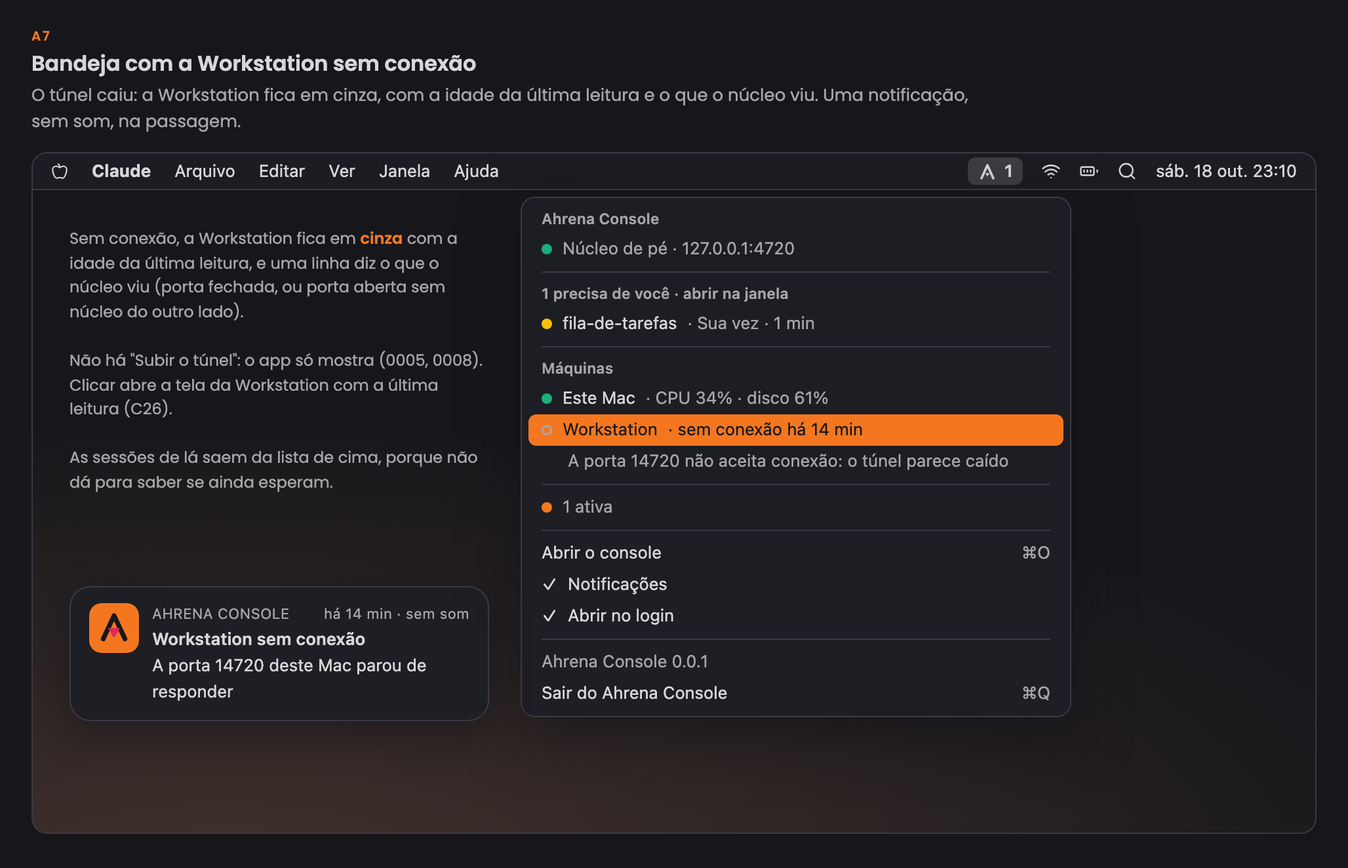
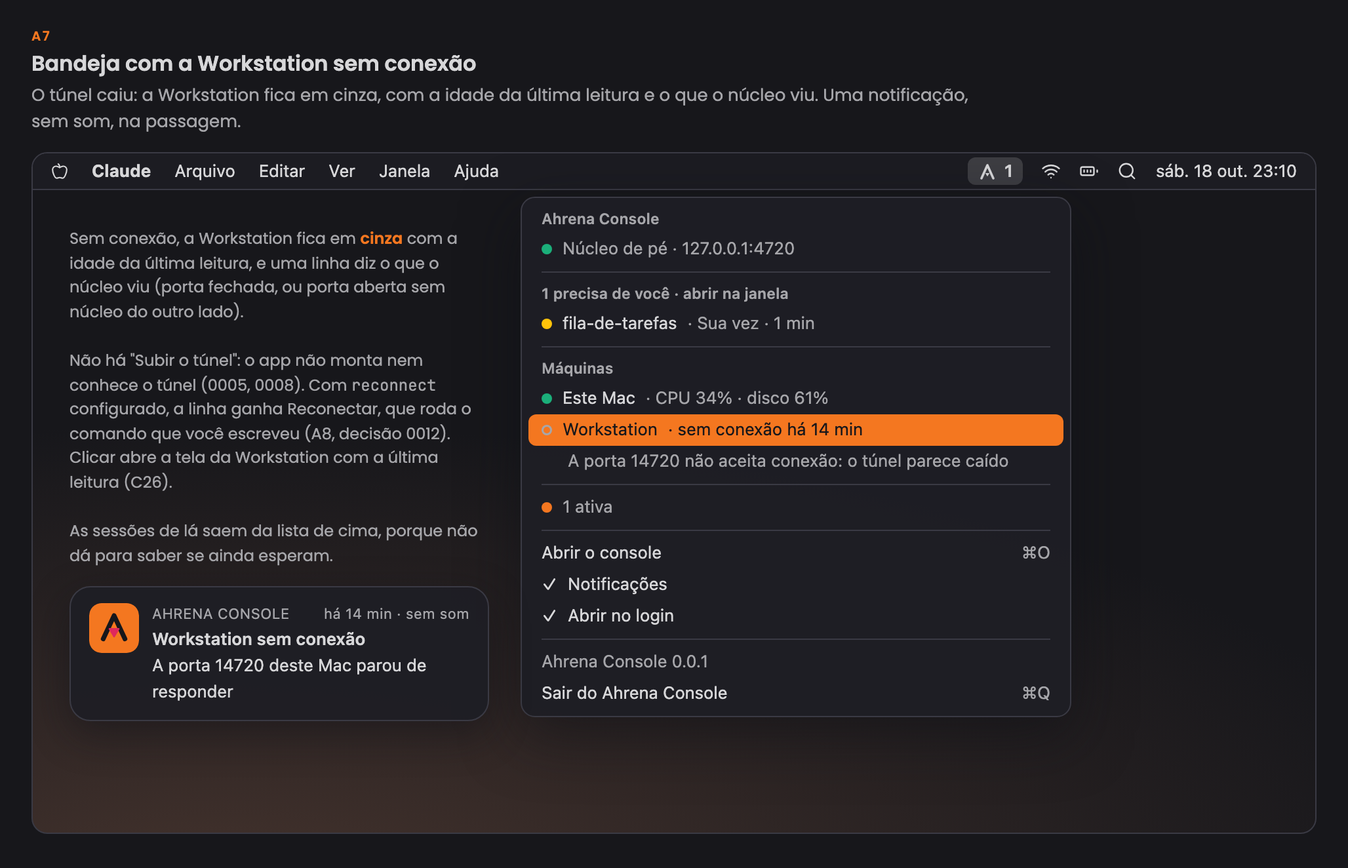
docs(wireframes): draw Reconnect for the remote machine (C45, A8)
C45 shows the remote machine screen in six states: offline with
reconnect configured, reconnecting, reconnected, failed (exit code and
timeout, plus variant B with the last output lines, to be decided),
no reconnect configured, and already reconnecting from the tray.
A8 adds Reconnect to the tray and to the offline notification.

C26 and A7 no longer say the app never touches the tunnel: it still
does not build or know it, but it can run the command the user wrote.
The C26 machines.json example now uses the real keys (label, port).

Refs #244

Changed region(s): [[0.0623, 0.4026, 0.3424, 0.6503]]

diff --git a/docs/wireframes/index.html b/docs/wireframes/index.html
@@ -520,6 +520,36 @@ body.captura .palco { overflow: visible; }
 .tm-states > .cartao { min-width: 0; }
 .tm-stack { display: flex; height: 8px; border-radius: 99px; overflow: hidden; background: var(--raised); }
 .tm-stack i { display: block; height: 100%; }
+/* ---------- reconnect the remote machine (C45 and A8, issue #244, decision 0012) ---------- */
+.tm-rc { display: flex; flex-direction: column; gap: 28px; }
+.tm-rc-row { display: flex; gap: 24px; align-items: flex-start; }
+.tm-rc-note { position: static; width: 300px; flex: none; padding-top: 22px; display: flex; flex-direction: column; gap: 12px; }
+.tm-rc-note code { font-size: 11px; }
+.faixa .tm-rc-actions { margin-left: auto; display: flex; gap: 8px; flex: none; align-items: center; }
+.faixa .tm-rc-actions .btn { margin-left: 0; }
+.faixa.tm-rc-band { align-items: flex-start; }
+.faixa.tm-rc-band .ic { margin-top: 1px; }
+.tm-rc-text { min-width: 0; flex: 1; }
+.tm-rc-cmd { margin-top: 6px; font-family: var(--font-mono); font-size: 11px; color: var(--muted); overflow-wrap: anywhere; }
+.btn.tm-rc-off { opacity: .55; cursor: not-allowed; }
+.faixa.tm-rc-ok { background: color-mix(in srgb, var(--status-completed-badge) 70%, var(--surface)); border-color: color-mix(in srgb, var(--status-completed-dot) 50%, var(--border)); }
+.faixa.tm-rc-ok .ic, .faixa.tm-rc-ok b { color: var(--status-completed-text); }
+.tm-rc-steps { display: flex; gap: 8px; align-items: center; flex-wrap: nowrap; white-space: nowrap; margin-top: 8px; font-size: 11.5px; color: var(--muted); }
+.tm-rc-steps > span { display: inline-flex; gap: 5px; align-items: center; }
+.tm-rc-steps .done { color: var(--status-completed-text); }
+.tm-rc-steps .on { color: var(--text); font-weight: 600; }
+.tm-rc-time { display: flex; align-items: center; gap: 10px; margin-top: 8px; font-family: var(--font-mono); font-size: 11px; color: var(--muted); }
+.tm-rc-time .tm-stack { width: 200px; height: 6px; }
+.tm-rc-clip { max-height: 520px; overflow: hidden; -webkit-mask-image: linear-gradient(to bottom, #000 60%, transparent); mask-image: linear-gradient(to bottom, #000 60%, transparent); }
+.tm-rc-out { font-family: var(--font-mono); font-size: 11px; line-height: 1.6; background: var(--bg); border: 1px solid var(--border); border-radius: 8px; padding: 8px 10px; margin-top: 8px; color: var(--text); white-space: pre-wrap; overflow-wrap: anywhere; }
+.tm-rc-variant { border: 1px dashed var(--border); border-radius: 12px; padding: 10px 12px 12px; display: flex; flex-direction: column; gap: 8px; }
+.tm-rc-variant > .olhinho { color: var(--status-waiting-text); }
+.tm-rc-setup { padding: 16px 18px; display: flex; flex-direction: column; gap: 12px; }
+.tm-rc-setup h5 { margin: 0; font-size: 13.5px; font-weight: 600; display: flex; align-items: center; gap: 8px; }
+.tm-rc-setup ol { margin: 0; padding-left: 20px; display: flex; flex-direction: column; gap: 10px; font-size: 12.5px; }
+.tm-rc-setup ol li > span { color: var(--muted); }
+.tm-rc-setup .tm-config { margin-top: 6px; }
+.tm-rc-setup .tm-legend { gap: 8px 18px; }
 /* ---------- Dev Console (C27) ---------- */
 .dev-queue { list-style: none; margin: 0; padding: 0; counter-reset: dev; }
 .dev-queue li { counter-increment: dev; display: grid; grid-template-columns: 26px 170px minmax(0, 1fr) auto; gap: 10px; align-items: center; padding: 9px 14px; border-bottom: 1px solid var(--border); font-size: 12.5px; }
@@ -1736,10 +1766,94 @@ const machineStatesScreen = () => `${cab('server', 'Workstation', 'Os outros est
     <div class="cartao vazio" style="min-height:300px"><span class="ic" style="color:var(--status-waiting-text)">${ic('server-off')}</span><b>O túnel está de pé, mas o núcleo de lá não respondeu</b><span>A porta 14720 aceita a conexão e ninguém responde em 3 s. Suba o núcleo na Workstation:</span><span class="tm-config">node packages/nucleo/src/dono/cli.ts subir</span><span class="btn contorno">${ic('refresh-cw')}Tentar de novo</span></div>
     <div class="cartao vazio" style="min-height:300px"><span class="ic">${ic('plug')}</span><b>Nenhuma máquina remota</b><span>Sem configuração, só esta máquina aparece. Para acompanhar outra, rode o núcleo nela, encaminhe a 4720 de lá por um túnel e grave:</span><span class="tm-config">~/.ahrena-console/machines.json
 { "machines": [{ "id": "workstation",
-  "rotulo": "Workstation", "porta": 14720 }] }</span></div>
+  "label": "Workstation", "port": 14720 }] }</span></div>
     <div class="cartao vazio" style="min-height:300px"><span class="ic" style="color:var(--status-waiting-text)">${ic('git-compare')}</span><b>Versão diferente lá</b><span>O núcleo de lá é a 0.0.1 e este é a 0.0.2. Mostramos o que as duas entendem; os cards que faltam ficam de fora até atualizar lá.</span></div>
   </div>
-  <div class="faixa"><span class="ic">${ic('info')}</span><div>O app <b>não sobe nem derruba o túnel</b>: só mostra. Subir, parar e encaminhar portas continua com a ferramenta que você já usa (decisão 0008).</div></div>`
+  <div class="faixa"><span class="ic">${ic('info')}</span><div>O app <b>não monta nem conhece o túnel</b>: subir, parar e encaminhar portas continua com a ferramenta que você já usa (decisão 0008). Com <code>reconnect</code> no machines.json, ele roda o comando que você escreveu para reconectar (decisão 0012, C45).</div></div>`
+
+// =====================================================================
+// RECONNECT the remote machine (C45, issue #244, decision 0012)
+// =====================================================================
+// The core runs the list the user wrote in machines.json ("reconnect.command"), nothing else.
+const RC_COMMAND = '/caminho/para/conectar.sh tunnel restart'
+const rcBadge = state => state === 'ok' ? '<span class="badge b-completed"><span class="p"></span>Conectada</span>'
+  : state === 'running' ? '<span class="badge b-waiting"><span class="p"></span>Reconectando</span>'
+  : '<span class="badge b-error"><span class="p"></span>Sem conexão</span>'
+const rcHeader = (state, readAt) => cab('server', 'Workstation', `ws-exemplo · Ubuntu 24.04 · 16 vCPUs · 62 GB · T4 · porta 14720 do Mac · ${readAt}`, `${rcBadge(state)}${hourToggle}`)
+const rcOfflineText = '<b>Sem conexão com a Workstation.</b> A porta 14720 deste Mac não aceita conexão: o túnel parece caído. Abaixo, a última leitura, de 22:41 (há 14 min). Tentamos de novo a cada 30 s.'
+const rcCmdLine = `<div class="tm-rc-cmd">Roda: ${RC_COMMAND} · até 3 min</div>`
+const rcBody = (w, faded) => `<div class="tm-rc-clip"><div${faded ? ' class="tm-faded"' : ''}>${workstationBody(w)}</div></div>`
+const rcSteps = at => `<div class="tm-rc-steps">${['rodando o comando', 'aguardando o login', 'lendo a Workstation'].map((s, i) =>
+  `<span class="${i < at ? 'done' : i === at ? 'on' : ''}">${ic(i < at ? 'check-circle-2' : i === at ? 'loader-2' : 'circle-dot')}${s}</span>`).join('<span>→</span>')}</div>`
+const rcTime = (elapsed, pct) => `<div class="tm-rc-time"><span class="tm-stack"><i style="width:${pct}%;background:var(--status-waiting-dot)"></i></span><span>${elapsed} de 3:00</span></div>`
+const rcErrorBand = (title, text, extra = '') => `<div class="faixa erro tm-rc-band"><span class="ic">${ic('x-circle')}</span><div class="tm-rc-text"><b>${title}</b> ${text}
+  <div class="tm-rc-cmd">A saída ficou no log da instalação: ~/.ahrena-console/&lt;instalação&gt;/core.log</div>${extra}</div>
+  <div class="tm-rc-actions"><span class="btn cheio">${ic('refresh-cw')}Tentar de novo</span></div></div>`
+
+// 1. Offline, with reconnect configured
+const rcOfferScreen = w => `${rcHeader('off', 'última leitura às 22:41')}
+  <div class="faixa erro tm-rc-band"><span class="ic">${ic('wifi-off')}</span><div class="tm-rc-text">${rcOfflineText}${rcCmdLine}</div>
+    <div class="tm-rc-actions"><span class="btn contorno">Tentar agora</span><span class="btn cheio">${ic('plug')}Reconectar</span></div></div>
+  ${rcBody(w, true)}`
+// 2. Reconnecting (and 6: started from the tray)
+const rcRunningScreen = fromTray => `${rcHeader('running', 'última leitura às 22:41')}
+  <div class="faixa tm-rc-band"><span class="ic">${ic('loader-2')}</span><div class="tm-rc-text"><b>${fromTray ? 'Reconectando, pela bandeja…' : 'Reconectando…'}</b> aguardando o login no navegador. Se o comando abriu uma página de login, ela é sua: entre por lá e o console segue sozinho.
+    ${rcSteps(1)}${fromTray ? rcTime('0:40', 22) : rcTime('1:12', 40)}${rcCmdLine}</div>
+    <div class="tm-rc-actions"><span class="btn contorno">${ic('x')}Cancelar</span><span class="btn cheio tm-rc-off">${ic('loader-2')}${fromTray ? 'Um por vez' : 'Reconectando…'}</span></div></div>
+  ${rcBody(1100, true)}`
+// 3. Reconnected
+const rcDoneScreen = () => `${rcHeader('ok', 'lido há 4 s')}
+  <div class="faixa tm-rc-ok"><span class="ic">${ic('check-circle-2')}</span><div><b>Reconectada às 22:58</b> · a leitura voltou. O comando saiu com o código 0 depois de 1 min 26 s, e o núcleo leu a Workstation na hora.</div></div>
+  ${rcBody(1100, false)}`
+// 4. Failed: exit code, timeout, and variant B with the last lines on screen
+const rcFailedScreen = () => `${rcHeader('off', 'última leitura às 22:41')}
+  <div class="olhinho">4a · o comando saiu com erro</div>
+  ${rcErrorBand('Não reconectou.', 'O comando saiu com o código 1 depois de 42 s. A Workstation continua sem conexão.')}
+  <div class="olhinho">4b · passou do tempo</div>
+  ${rcErrorBand('Não reconectou.', 'O comando passou de 3 min e foi encerrado. Se um login ficou aberto no navegador, ele não conta mais.')}
+  <div class="tm-rc-variant"><div class="olhinho">${ic('help-circle')}Variante B, a decidir · as últimas linhas na tela</div>
+  ${rcErrorBand('Não reconectou.', 'O comando saiu com o código 1 depois de 42 s. As últimas 3 linhas:', `<div class="tm-rc-out">Erro: a sessão de login expirou
+abrindo a página de login de novo…
+tente de novo em alguns segundos</div>`)}</div>
+  ${rcBody(1100, true)}`
+// 5. No reconnect configured
+const rcSetupScreen = () => `${rcHeader('off', 'última leitura às 22:41')}
+  <div class="faixa erro"><span class="ic">${ic('wifi-off')}</span><div>${rcOfflineText}</div><span class="btn contorno">Tentar agora</span></div>
+  <div class="cartao tm-rc-setup"><h5>${ic('plug')}Reconectar daqui</h5>
+    <span class="c-muted" style="font-size:12.5px">O console pode rodar, com um clique, o comando que você já usa para subir o túnel. Ele não sabe montar túnel nenhum: só roda o que você escrever.</span>
+    <ol><li><b>Tenha um comando que sobe o túnel.</b> <span>O seu script, o que você já roda no terminal.</span></li>
+      <li><b>Acrescente <code>reconnect</code> à máquina no machines.json.</b>
+        <div class="tm-config">~/.ahrena-console/machines.json
+{ "machines": [ { "id": "workstation", "label": "Workstation", "port": 14720,
+    "reconnect": { "command": ["/caminho/para/conectar.sh", "tunnel", "restart"],
+                   "timeoutSeconds": 180 } } ] }</div></li>
+      <li><b>Pronto.</b> <span>O console relê o arquivo ao salvar, sem reiniciar, e o botão Reconectar aparece aqui e na bandeja.</span></li></ol>
+    <div class="tm-legend"><span>${ic('list')} Uma lista, sem shell: o console roda exatamente o que está no arquivo.</span><span>${ic('lock')} Nada da tela vira comando.</span></div></div>
+  ${rcBody(1100, true)}`
+
+const rcNote = items => `<div class="anota tm-rc-note">${items.map(x => `<div>${x}</div>`).join('')}</div>`
+const rcRow = (frames, note) => `<div class="tm-rc-row">${frames.map(([label, f]) => `<div class="width-col"><div class="rotulo">${label}</div>${f}</div>`).join('')}${note ? rcNote(note) : ''}</div>`
+const reconnectScreens = () => `<div class="tm-rc">
+  ${rcRow([['1 · sem conexão, com reconexão configurada · 1100 px', frameAt(1100, 'machine-ws', rcOfferScreen(1100), 'off')], ['1 · 1440 px', frameAt(1440, 'machine-ws', rcOfferScreen(1440), 'off')]], [
+    '<b>Só roda o que você escreveu</b>: a lista <code>reconnect.command</code> do machines.json, exatamente, sem shell e sem interpolação. Nada digitado na tela vira comando: o botão só manda o id da máquina.',
+    'A linha mono repete a lista do arquivo e o tempo limite (<code>timeoutSeconds</code>), para você saber o que vai rodar <b>antes</b> de clicar.',
+    'O clique é um <b>POST de mesma origem</b>, a exceção da decisão 0003; outro Origin é recusado.',
+    'Reconectar é o botão principal; Tentar agora continua só relendo a porta, sem rodar nada.'])}
+  ${rcRow([['2 · reconectando · 1100 px', frameAt(1100, 'machine-ws', rcRunningScreen(false), 'off')], ['6 · já reconectando, começou pela bandeja · 1100 px', frameAt(1100, 'machine-ws', rcRunningScreen(true), 'off')]], [
+    'O núcleo roda o comando como <b>processo filho</b>, com o PATH do shell de login e nada além disso.',
+    '<b>Um por vez</b> por máquina: o segundo clique, daqui ou da bandeja (6), encontra o botão desligado e a mesma contagem.',
+    'O núcleo não vê o navegador: enquanto o processo roda, a faixa diz "aguardando o login", que é o caso comum. "Rodando o comando" fica feito quando o processo sobe.',
+    '<b>Cancelar</b> encerra o processo filho. Uma página de login já aberta no navegador fica lá, e é sua.',
+    '<b>Tempo limite</b>: o <code>timeoutSeconds</code> do arquivo. Passou, o núcleo encerra o processo e mostra a falha (4b).'])}
+  ${rcRow([['3 · reconectada · 1100 px', frameAt(1100, 'machine-ws', rcDoneScreen(), 'ok')], ['5 · sem reconexão configurada · 1100 px', frameAt(1100, 'machine-ws', rcSetupScreen(), 'off')]], [
+    'Saiu com 0: o núcleo relê a Workstation <b>na hora</b>, sem esperar os 30 s, e a tela volta ao normal (C25), com a faixa verde dizendo a hora.',
+    'Saiu com 0 e a porta ainda não responde: a tela volta ao estado 1, e a faixa diz que o comando terminou bem mas a Workstation não respondeu.',
+    'Sem <code>reconnect</code>, <b>nenhum botão morto</b> (5): o card ensina a configurar, e a C26 continua igual para quem não quer.'])}
+  ${rcRow([['4 · falhou · 1100 px', frameAt(1100, 'machine-ws', rcFailedScreen(), 'off')]], [
+    '<b>A saída vai para o log da instalação</b>, nunca para a /ui: o que o comando imprime pode ter conta, host ou token (issue #244, item 3). A tela diz só o código de saída, o tempo e onde está o log.',
+    '<b>Variante B, a decidir</b>: as 3 últimas linhas da saída na faixa. Ajuda a ver o motivo sem abrir o log, mas leva para a tela o que o comando imprimiu. A variante A é a da issue.',
+    'Tentar de novo roda o mesmo comando outra vez; nada muda no arquivo.'])}
+</div>`
 
 // =====================================================================
 // DEV CONSOLE (C27)
@@ -2167,9 +2281,34 @@ const APP = {
     ${mi(`<span class="ck"></span><span class="mt">A porta 14720 não aceita conexão: o túnel parece caído</span>`, 'off')}${msep}
     ${mi(`${ponto('active')}1 ativa`, 'off')}${msep}${menuPe}</div>
     <div class="anota" style="left:28px;top:56px;width:320px">Sem conexão, a Workstation fica em <b>cinza</b> com a idade da última leitura, e uma linha diz o que o núcleo viu (porta fechada, ou porta aberta sem núcleo do outro lado).<br><br>
-      Não há "Subir o túnel": o app só mostra (0005, 0008). Clicar abre a tela da Workstation com a última leitura (C26).<br><br>
+      Não há "Subir o túnel": o app não monta nem conhece o túnel (0005, 0008). Com <code>reconnect</code> configurado, a linha ganha Reconectar, que roda o comando que você escreveu (A8, decisão 0012). Clicar abre a tela da Workstation com a última leitura (C26).<br><br>
       As sessões de lá saem da lista de cima, porque não dá para saber se ainda esperam.</div>
     <div class="notif" style="top:330px;left:28px;right:auto;width:320px"><img src="${LOGO}" alt=""><div><div class="app">AHRENA CONSOLE<span>há 14 min · sem som</span></div><div class="tit">Workstation sem conexão</div><div>A porta 14720 deste Mac parou de responder</div></div></div>`,
+  machinesReconnect: () => mbar(1, true) + `<div class="menu" style="right:186px;width:420px">${mi('Ahrena Console', 'cab')}${mi(`${ponto('completed')}Núcleo de pé · 127.0.0.1:4720`, 'off')}${msep}
+    ${mi('1 precisa de você · abrir na janela', 'cab')}${mi(`${ponto('waiting')}fila-de-tarefas<span class="mt">· Sua vez · 1 min</span>`)}${msep}
+    ${mi('Máquinas', 'cab')}
+    ${mi(`${ponto('completed')}Este Mac<span class="mt">· CPU 34% · disco 61%</span>`)}
+    ${mi(`<span class="ponto" style="box-shadow:inset 0 0 0 1.5px var(--muted)"></span>Workstation<span class="mt">· sem conexão há 14 min</span>`)}
+    ${mi(`<span class="ck"></span><span class="mt">A porta 14720 não aceita conexão: o túnel parece caído</span>`, 'off')}
+    ${mi(`<span class="ck"></span>Reconectar a Workstation`, 'foco')}${msep}
+    ${mi(`${ponto('active')}1 ativa`, 'off')}${msep}${menuPe}</div>
+    <div class="anota" style="left:28px;top:56px;width:320px"><b>a.</b> Com <code>reconnect</code> na máquina, a linha dela ganha <b>Reconectar a Workstation</b>. Clicar roda o comando do arquivo no núcleo, como o botão da C45; a bandeja não roda nada sozinha.</div>
+    <div class="notif" style="top:196px;left:28px;right:auto;width:320px"><img src="${LOGO}" alt=""><div><div class="app">AHRENA CONSOLE<span>há 14 min · sem som</span></div><div class="tit">Workstation sem conexão</div><div>A porta 14720 deste Mac parou de responder</div></div>
+      <div class="acoes"><span>Reconectar</span><span>Abrir</span></div></div>
+    <div class="anota" style="left:28px;top:340px;width:320px"><b>c.</b> A notificação de "sem conexão" ganha a ação <b>Reconectar</b>, só quando há <code>reconnect</code>; sem ele, fica como na A7. <b>Abrir</b> leva à tela da Workstation (C45).</div>`,
+  machinesReconnecting: () => mbar(1, true) + `<div class="menu" style="right:186px;width:420px">${mi('Ahrena Console', 'cab')}${mi(`${ponto('completed')}Núcleo de pé · 127.0.0.1:4720`, 'off')}${msep}
+    ${mi('1 precisa de você · abrir na janela', 'cab')}${mi(`${ponto('waiting')}fila-de-tarefas<span class="mt">· Sua vez · 1 min</span>`)}${msep}
+    ${mi('Máquinas', 'cab')}
+    ${mi(`${ponto('completed')}Este Mac<span class="mt">· CPU 34% · disco 61%</span>`)}
+    ${mi(`${ponto('waiting')}Workstation<span class="mt">· reconectando</span>`, 'foco')}
+    ${mi(`<span class="ck"></span>Reconectando… aguardando login · 1:12`, 'off')}${msep}
+    ${mi(`${ponto('active')}1 ativa`, 'off')}${msep}${menuPe}</div>
+    <div class="anota" style="left:28px;top:56px;width:320px"><b>b.</b> Enquanto o comando roda, o item fica <b>cinza e sem clique</b>, com a contagem: um por vez, daqui ou da janela. Clicar na linha da Workstation abre a C45, onde está o Cancelar.</div>
+    <div class="menu" style="left:28px;top:200px;width:320px">${mi('Sem reconnect configurado', 'cab')}${msep}
+      ${mi(`<span class="ponto" style="box-shadow:inset 0 0 0 1.5px var(--muted)"></span>Workstation<span class="mt">· sem conexão há 14 min</span>`)}
+      ${mi(`<span class="ck"></span><span class="mt">A porta 14720 não aceita conexão</span>`, 'off')}
+      ${mi(`<span class="ck"></span>Como reconectar daqui…`, 'foco')}</div>
+    <div class="anota" style="left:28px;top:330px;width:320px">Sem <code>reconnect</code>, nada de botão que não funciona: <b>Como reconectar daqui…</b> abre a C45 no estado 5, com o passo a passo do machines.json.</div>`,
   janela: () => mbar(3, false) + `<div class="janela"><div class="tb"><span class="sem"><i></i><i></i><i></i></span><span class="nm">Ahrena Console · motor-de-regras</span><span class="mono">127.0.0.1:4720/ui/sessoes/b91d04aa</span></div>${cc('sessoes', telaConversa())}</div>`,
 }
 
@@ -2228,7 +2367,9 @@ const TELAS = [
   { id: 'app-machines', cod: 'A6', nome: 'Bandeja com a Workstation conectada e um alerta', sub: 'O bloco Máquinas: esta máquina e a remota, com o número que mais importa e os alertas abertos. As sessões da Workstation que esperam entram na lista de cima, com o rótulo da máquina.', html: () => `<div class="fila"><div class="mac">${APP.machines()}</div></div>`,
     n: N(['O menu do A2, igual; o CCAM não tem telemetria de máquina.', 'Do painel de telemetria antigo: a linha do túnel e o alerta de porta.'], ['Telemetria no menu só como resumo: o detalhe é a janela.', 'Alerta de máquina não entra no número da barra, que é de sessões.', 'Sem ações de túnel, login ou portas: o app só mostra (0008).']) },
   { id: 'app-machines-offline', cod: 'A7', nome: 'Bandeja com a Workstation sem conexão', sub: 'O túnel caiu: a Workstation fica em cinza, com a idade da última leitura e o que o núcleo viu. Uma notificação, sem som, na passagem.', html: () => `<div class="fila"><div class="mac">${APP.machinesOffline()}</div></div>`,
-    n: N(['Do painel de telemetria antigo: os estados da porta (respondendo, ninguém escuta lá, ocupada, fora do túnel).'], ['O painel antigo tinha "Subir o túnel"; aqui não, porque mudar o túnel pede uma confirmação que não cabe numa bandeja.']) },
+    n: N(['Do painel de telemetria antigo: os estados da porta (respondendo, ninguém escuta lá, ocupada, fora do túnel).'], ['O painel antigo tinha "Subir o túnel"; aqui não: o app não conhece o túnel. Reconectar, quando configurado, roda só o comando que você escreveu (A8).']) },
+  { id: 'app-machines-reconnect', cod: 'A8', nome: 'Bandeja: Reconectar', sub: 'Feature Reconectar a máquina remota (#244, decisão 0012). À esquerda, com reconnect configurado: o item Reconectar a Workstation e a notificação com a ação Reconectar. À direita, o comando rodando (cinza, sem clique) e, sem reconnect, o item que ensina a configurar.', html: () => `<div class="fila"><div class="mac">${APP.machinesReconnect()}</div><div class="mac">${APP.machinesReconnecting()}</div></div>`,
+    n: N(['Do painel de telemetria antigo: o "Subir o túnel" na linha da máquina; aqui o comando é o seu, não um que o app conhece.'], ['Só aparece com <code>reconnect</code> no machines.json; sem ele, um item leva ao passo a passo (C45, estado 5).', 'Um por vez: o item fica cinza com a contagem enquanto o comando roda, venha o clique daqui ou da janela.', 'Cancelar fica na janela: na bandeja não cabe confirmação.']) },
   { cap: 'console', titulo: 'Console (artefato)', desc: 'O console completo, que é também o que a janela do app mostra: todas as telas do CCAM que fazem sentido aqui, na mesma ordem da barra lateral dele. Moldura, cabeçalho, cards, tabelas e gráficos seguem o CCAM tela a tela.' },
   { id: 'console-dashboard', cod: 'C1', nome: 'Dashboard', sub: '6 cards, "precisam de você" em destaque, agentes ativos e atividade recente (3.2).', html: () => `<div class="fila">${cc('dashboard', telaDashboard())}</div>`,
     n: N(['Dashboard · Monitor: grade 3 × 2 de StatCard, Active Agents com AgentCard (borda na cor do status, duas últimas mensagens, modelo, custo, idade, id) e Recent Activity.', 'Cabeçalho de página com ícone, título, pílula Live e Refresh; segmented Monitor | Saúde.'], ['O inbox "precisam de você" entra entre os números e as listas, ideia do Podium.', 'Custo sempre com "~" e "estimativa".']) },
@@ -2281,7 +2422,9 @@ const TELAS = [
   { id: 'console-workstation', cod: 'C25', nome: 'Workstation', sub: 'A mesma tela para a máquina remota, lida do núcleo de lá pela porta que o túnel encaminha: carga contra os vCPUs, volumes, Docker com o recuperável, stacks com a sessão dona, as sessões do Claude de lá e as portas, com a porta do Mac que encaminha cada uma.', html: () => `<div class="fila">${bothWidths(w => frameAt(w, 'machine-ws', workstationScreen(w)))}</div>`,
     n: N(['Do console da workstation antigo: volumes, recursos, Docker em uso e recuperável, stacks e a sessão dona, sessões do Claude lá, portas em escuta por interface e "o que pede atenção".'], ['Lido ao vivo do núcleo de lá, a cada 30 s; o antigo era escrito à mão a cada medição.', 'Fora: faturamento e créditos de nuvem (pedem credencial de uma conta), perfis de nuvem e worktrees (ficam para uma issue própria).', 'O nome da máquina e a porta vêm de ~/.ahrena-console/machines.json; nada aponta para uma máquina por padrão.']) },
   { id: 'console-workstation-offline', cod: 'C26', nome: 'Workstation sem conexão, e os outros estados', sub: 'Túnel caído: a faixa diz o que o núcleo viu e a tela mostra a última leitura, desbotada. Ao lado, o túnel de pé com o núcleo de lá parado, nenhuma máquina configurada e versão diferente.', html: () => `<div class="fila"><div class="width-col"><div class="rotulo">1100 px</div>${frameAt(1100, 'machine-ws', workstationOfflineScreen(), 'off')}</div><div class="width-col"><div class="rotulo">1100 px</div>${frameAt(1100, 'machine-ws', machineStatesScreen(), 'off')}</div></div>`,
-    n: N(['Os três estados do C19 (carregando, vazio e erro).', 'Do painel antigo: "Sem ligação com esta máquina" com o diagnóstico logo abaixo.'], ['Sem botão de subir o túnel nem o núcleo de lá: o app só mostra.', 'A última leitura fica no SQLite do Mac, então a tela abre com ela e diz a idade.']) },
+    n: N(['Os três estados do C19 (carregando, vazio e erro).', 'Do painel antigo: "Sem ligação com esta máquina" com o diagnóstico logo abaixo.'], ['Sem botão de subir o núcleo de lá. O túnel continua seu; Reconectar só aparece com o comando que você escreveu no machines.json (C45).', 'A última leitura fica no SQLite do Mac, então a tela abre com ela e diz a idade.']) },
+  { id: 'console-workstation-reconnect', cod: 'C45', nome: 'Reconectar a Workstation', sub: 'Feature Reconectar a máquina remota (#244, decisão 0012): o console roda o comando de reconexão que você escreveu no machines.json. Os seis estados: com reconexão configurada (1, em 1100 e 1440), reconectando (2), reconectada (3), falhou (4, com a variante B a decidir), sem reconexão configurada (5) e já reconectando pela bandeja (6). A última leitura aparece cortada embaixo; é a mesma da C25.', html: () => reconnectScreens(),
+    n: N(['Do painel de telemetria antigo: "Sem ligação com esta máquina" com o diagnóstico logo abaixo, como na C26.'], ['O console não sabe montar túnel nem fazer login: roda a lista do arquivo, sem shell, e só ela.', 'A saída do comando fica no log da instalação, nunca na tela (variante A); a B está desenhada para o dono escolher.', 'Um por vez por máquina, com tempo limite e Cancelar.']) },
   { id: 'console-dev-console', cod: 'C27', nome: 'Dev Console', sub: 'O placar de um contexto (um conjunto de repositórios): prontos para você, CI rodando, CI vermelho, sessões trabalhando e quem espera; a fila de merge na ordem; o quadro das issues em seis colunas e o que foi mesclado. Em 1440 as seis colunas lado a lado; em 1100, quatro e duas embaixo, para nada rolar na horizontal.', html: () => `<div class="fila">${bothWidths(w => frameAt(w, 'dev', devConsoleScreen(w)))}</div>`,
     n: N(['Do Dev Console antigo: o seletor de contexto, a aba Fila de merge com todos os contextos, o placar de 5 números, "Depende de você", a fila na ordem de merge com os não prontos fechados, o quadro de 6 colunas com o critério de cada uma, e "mesclados nas últimas 24 h".'], ['Derivado no núcleo, sem sessão de PM gravando estado: "Delegada" é uma sessão aberta no branch da issue sem push, e "Depende de você" vem de /api/atencao e das decisões sugeridas.', '"Bloqueada" é a etiqueta blocked da issue; plano em andamento e a trilha da release ficaram de fora, porque dependiam de anotação.', 'O antigo rolava na horizontal (o quadro tinha 1110 px mínimos); aqui o quadro dobra em 1100.']) },
   { id: 'console-adrs', cod: 'C28', nome: 'ADR · decisões de arquitetura', sub: 'Os registros de decisão (ADRs) de todos os repositórios da conta, por repositório, com busca no texto e filtro por status. Em 1100 (a janela do app) e 1440.', html: () => `<div style="display:flex;flex-direction:column;gap:12px"><div class="rotulo">1100 px</div>${frameAt(1100, 'adrs', telaAdrs(false))}<div class="rotulo">1440 px</div>${frameAt(1440, 'adrs', telaAdrs(true))}</div>`,
@@ -2328,7 +2471,8 @@ function montar() {
     <li><b>Sessão com erro:</b> <b>entra</b> em "precisam de você" (decidido pelo dono). Ela parou e só anda com uma ação sua, como as que esperam; o design.md já diz que o vermelho é "falhou e precisa de você". Entra depois das urgentes que esperam e antes de "Sua vez", vai para a bandeja e notifica com som. "No prompt" fica de fora: a sessão acabou de abrir e você sabe disso.</li>
     <li><b>Decisões da sessão:</b> o escopo tem os três níveis (sessão, família e branch), trocados no mesmo seletor; as decisões vigentes chegam à sessão nova pelos dois caminhos, injetadas no início e pelo MCP quando o agente perguntar (P9, P10, C20 e C21).</li>
     <li><b>Onde o grafo vive (#146, a aprovar):</b> a proposta é um detalhe aberto pelo pé do card Subagentes, no lugar dos cards, como as decisões (P11). Dentro do card não cabe; numa seção própria, empurra o resto para baixo.</li>
-    <li><b>Telemetria e Dev Console no app (decisão 0008, a aprovar):</b> cada máquina se mede com o próprio núcleo; o do Mac lê o da Workstation pela porta que o túnel encaminha; o app só mostra, sem subir túnel nem abrir login (A6, A7, C24 a C27). A barra lateral ganha Dev Console e a seção Máquinas, que aparece em todas as telas.</li>
+    <li><b>Telemetria e Dev Console no app (decisão 0008, a aprovar):</b> cada máquina se mede com o próprio núcleo; o do Mac lê o da Workstation pela porta que o túnel encaminha; o app só mostra, sem subir túnel nem abrir login (A6, A7, C24 a C27). A reconexão revê esse ponto na decisão 0012. A barra lateral ganha Dev Console e a seção Máquinas, que aparece em todas as telas.</li>
+    <li><b>Reconectar a máquina remota (#244, decisão 0012, a aprovar):</b> com <code>reconnect</code> no machines.json, o núcleo do Mac roda o comando que você escreveu, sem shell, um por vez e com tempo limite; a tela espera o login no navegador e relê a remota ao terminar (C45, A8). Falta escolher: a saída só no log (variante A, a da issue) ou também as 3 últimas linhas na tela (variante B).</li>
     <li><b>Backlog:</b> Feed de atividade, Analytics completo, Workflows e o detalhe com o grafo de agentes estavam para depois da entrega. Entraram aqui a pedido do dono; o PM decide se viram itens da 0.0.1.</li></ol></section>`
   indice.innerHTML = htmlI; main.innerHTML = htmlM
   if (window.lucide) lucide.createIcons()

diff --git a/docs/wireframes/README.md b/docs/wireframes/README.md
@@ -3,8 +3,8 @@
 Wireframes de todas as telas da 0.0.1, para aprovação antes de construir:
 
 - **Painel lateral** (mod do Claude Code, decisão [0004](../decisoes/0004-painel-da-sessao.md)): P0 a P13, em 38 e 121 colunas, com as decisões da sessão (P9 e P10) e o grafo da sessão com os subagentes (P11 a P13, issue #146).
-- **App de bandeja** (Tauri, decisão [0005](../decisoes/0005-app-desktop.md)): A1 a A5, e A6 e A7 com o bloco Máquinas (decisão [0008](../decisoes/0008-machine-telemetry-and-dev-console.md)).
-- **Console** (artefato, que também é a janela do app): C1 a C23, com Feed, Analytics, Workflows (grafo de agentes e o laço dev/review), Agent Config, Rodar agente, Decisões (C20 e C21), Repositórios (C22 e C23), as máquinas (C24 Esta máquina, C25 Workstation, C26 sem conexão) o Dev Console (C27) e as ADRs dos repositórios (C28 a C31, issue #174) e as instruções dos agentes de cada repositório (C32 e C33, issue #183), o fluxo para instalar o Ahrena Framework num repositório por PR (C34 a C37, issue #184) e as decisões de produto, PDR (C38), com o [estudo](../repo-instructions-install-adrs-study.md). As telas novas aparecem em 1100 px, a largura da janela do app, e em 1440 px.
+- **App de bandeja** (Tauri, decisão [0005](../decisoes/0005-app-desktop.md)): A1 a A5, e A6 e A7 com o bloco Máquinas (decisão [0008](../decisoes/0008-machine-telemetry-and-dev-console.md)), e A8 com o Reconectar da máquina remota (issue #244, decisão 0012).
+- **Console** (artefato, que também é a janela do app): C1 a C23, com Feed, Analytics, Workflows (grafo de agentes e o laço dev/review), Agent Config, Rodar agente, Decisões (C20 e C21), Repositórios (C22 e C23), as máquinas (C24 Esta máquina, C25 Workstation, C26 sem conexão) o Dev Console (C27) e as ADRs dos repositórios (C28 a C31, issue #174) e as instruções dos agentes de cada repositório (C32 e C33, issue #183), o fluxo para instalar o Ahrena Framework num repositório por PR (C34 a C37, issue #184) as decisões de produto, PDR (C38), com o [estudo](../repo-instructions-install-adrs-study.md), e Reconectar a Workstation pelo comando do machines.json (C45, issue #244). As telas novas aparecem em 1100 px, a largura da janela do app, e em 1440 px.
 
 A referência é o Claude Code Agent Monitor. Cada tela diz o que veio dele e onde diverge.
 
